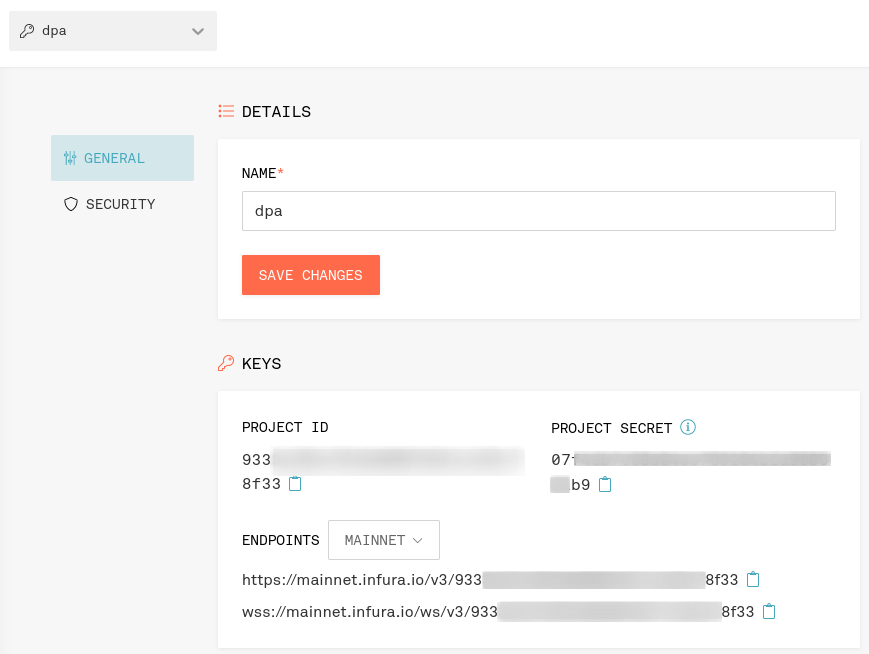
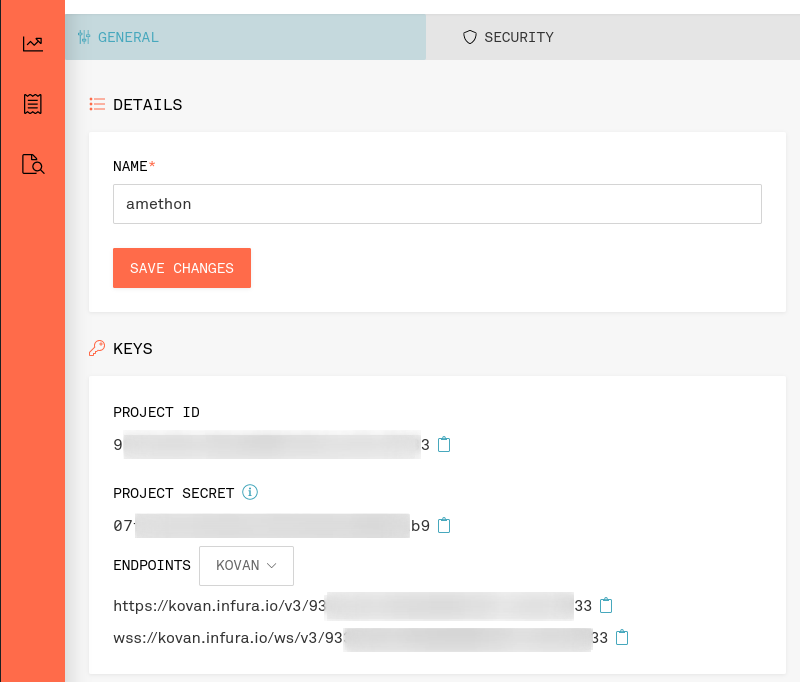
article: backend crud / listener, frontend web3

diff --git a/article/article.md b/article/article.md
@@ -1,4 +1,4 @@
-# Paying with Crypto for a classical commerce app
+# Accepting Crypto Payments in a Classic Commerce App
 
 E-commerce storefronts are surprisingly slowly adapting crypto tokens as a payment method. Crypto payment plugins or payment gateway integrations aren't generally available or rely on a 3rd party custodian to collect, exchange and distribute revenues. Considering the growing ownership rate and experimentation ratio of crypto currencies, a "pay with token" button could be a great addition to any online shop to drive sales. Here we demonstrate how you can integrate a secure crypto payment method into any online store without relying on any 3rd party service.
 
@@ -6,11 +6,13 @@ E-commerce storefronts are surprisingly slowly adapting crypto tokens as a payme
 
 The goal is to build a storefront for downloadable ebooks that accepts the blockchain's native Ether currency and ERC20 stablecoins (pegged in USD) as payment which allows us to do without an external exchange rate service apart from an updated ETH/USD rate that we will just assume fixed for simplicity's sake.
 
-## application structure
+### application structure
 
 The store is built as a very plain express CRUD API with no direct connection to any blockchain. Its frontend relies on a plain Create React App setup and the settlement layer consists of an Ethereum smart contract that accepts Ether and ERC20 payments.
 
-Amethon is "classic" ecommerce application so it must take care of the business logic itself. To initiate the checkout transaction the backend creates a `PaymentRequest` object with an unique identifier that users are supposed to send along their payment transaction. Once the payment has settled, a permanently running daemon listens to corresponding payment events emitted by the contract layer and updates the store's database when a payment has settled. To authenticate requests for the final download step the backend requires the customer's individual signature. The full Amethon implementation can be found on our [github repo](https://github.com/elmariachi111/amethon).
+Amethon is "classic" ecommerce application so it must take care of the business logic itself. To initiate the checkout transaction the backend creates a `PaymentRequest` object with an unique identifier that users are supposed to send along their payment transaction. Once the payment has settled, a permanently running daemon listens to corresponding payment events emitted by the contract layer and updates the store's database when a payment has settled. To authenticate requests for the final download step the backend requires the customer's individual signature. The full Amethon implementation can be found on our [github repo](https://github.com/elmariachi111/amethon). All code is written in Typescript and can be compiled using the respective `yarn build` or `yarn dev` commands.
+
+## Contracts
 
 ### The PaymentReceiver contract
 
@@ -115,22 +117,199 @@ Our `truffle.config.js` shows how everything fits together:
  };
 ```
 
-For your local development setup you won't need any further setup. To start a local blockchain with prefunded accounts, just change to the `contracts` folder, execute a `yarn develop`. You can build the contracts by issuing a `compile` command and deploy them on your devnet with `migrate`. To interact with the deployed instances from inside the console you first get a deployed instance and call methods on it:
+Local development doesn't require any special setup. Change to the `contracts` folder and run `yarn truffle develop`. This will start a local blockchain with prefunded accounts and open a connected console on it. Type `compile` to compile all contracts at once and deploy them to your the local chain with `migrate`. You can interact with the deployed instances by requesting the currently deployed instance of it and calling its methods like this:
 
 ```
 pr = await PaymentReceiver.deployed()
 balance = await pr.getBalance()
 ```
 
-## backend
+Once you're fine with your results you can deploy them on a public testnet (or mainnet), as well:
 
-#### the store API / CRUD
+```
+yarn truffle migrate --interactive --network kovan
+```
 
-#### a listener daemon
+## The Backend
 
-### frontend
+### the store API / CRUD
 
-#### connecting to web3
+The foremost task of our backend is to provide a REST-like API to access CRUD resources. We've decided to go with TypeORM to setup a local SQLite database and created entities for `Book`s and `PaymentRequest`s. Books obviously represent our shop's main entity and have a retail price, denoted in USD cents. On a sidenote: storing monetary values as integers is highly adviseable on any computer system because operating on float values will certainly introduce precision errors - all tokens on Ethereum operate with 18 decimal digits and 1 Ether therefore represents "1000000000000000000" _wei_, the smallest ether unit.
+
+```typescript
+import { Entity, Column, PrimaryColumn, OneToMany } from "typeorm";
+import { PaymentRequest } from "./PaymentRequest";
+
+@Entity()
+export class Book {
+  @PrimaryColumn()
+  ISBN: string;
+
+  @Column()
+  title: string;
+
+  @Column()
+  retailUSDCent: number;
+
+  @OneToMany(
+    () => PaymentRequest,
+    (paymentRequest: PaymentRequest) => paymentRequest.book
+  )
+  payments: PaymentRequest[];
+}
+```
+
+Users who intend to _buy_ a book from our store, first create an individual `PaymentRequest` for their item by invoking the `/books/:isbn/order` route. It creates a new unique identifier that must be sent along each request. We're using plain integers here but for real use cases you'd want to use something more sophisticated - just make sure that its binary length fits into 32 bytes, which translate to one uint256 in Solidity. Each `PaymentRequest` inherits the books retail value in USD cents and carries the receiver's address; thus a book can effectively bought as a gift for another address. `fulfilledHash` and `paidUSDCent` will be determined during the buying process. The frontend will request already existing `PaymentRequest`s by calling the `/books/:isbn/payments/:address` route.
+
+```typescript
+import { Entity, Column, ManyToOne, PrimaryGeneratedColumn } from "typeorm";
+import { Book } from "./Book";
+
+@Entity()
+export class PaymentRequest {
+  @PrimaryGeneratedColumn()
+  id: number;
+
+  @Column("varchar", { nullable: true })
+  fulfilledHash: string | null;
+
+  @Column()
+  address: string;
+
+  @Column()
+  priceInUSDCent: number;
+
+  @Column("mediumint", { nullable: true })
+  paidUSDCent: number;
+
+  @ManyToOne(() => Book, (book) => book.payments)
+  book: Book;
+}
+```
+
+```json
+POST http://localhost:3001/books/978-0060850524/order
+Content-Type: application/json
+
+{
+  "address": "0xceeca1AFA5FfF2Fe43ebE1F5b82ca9Deb6DE3E42"
+}
+---
+{
+  "paymentRequest": {
+    "book": {
+      "ISBN": "978-0060850524",
+      "title": "Brave New World",
+      "retailUSDCent": 1034
+    },
+    "address": "0xceeca1AFA5FfF2Fe43ebE1F5b82ca9Deb6DE3E42",
+    "priceInUSDCent": 1034,
+    "fulfilledHash": null,
+    "paidUSDCent": null,
+    "id": 6
+  },
+  "receiver": "0x7A08b6002bec4B52907B4Ac26f321Dfe279B63E9"
+}
+
+```
+
+To initially seed the database with books you can use the accompanying `seed.ts` file that once compiled can be executed by invoking `node build/seed.js`.
+
+### The blockchain listener daemon
+
+At its core a blockchain is a never ending list of consecutive transactions that modify one huge state tree. Querying the state tree from clients doesn't cost any gas but requires (Infura's) nodes to read data - when that those operations become too computation heavy, they might simply time out. For real time interactions it therefore is highly recommended to not poll contract view methods but listen to events emitted by transactions instead. This is how the backend's `daemon.ts` script listens for `PaymentReceived` events:
+
+```typescript
+  const paymentReceiver = new web3.eth.Contract(
+    paymentReceiverAbi as AbiItem[],
+    process.env.PAYMENT_RECEIVER_CONTRACT as string
+  );
+
+  const emitter = paymentReceiver.events.PaymentReceived({
+    fromBlock: "0",
+  });
+
+  emitter.on("data", handlePaymentEvent);
+})();
+```
+
+Take note of how we're instantiating the `Contract` instance with an "ABI": this "Application Binary Interface" is a compiler generated output that contains information for RPC clients which methods, events and arguments exist on a smart contract. Once instantiated you can hook a listener on the contract's `PaymentReceived` logs (starting at block 0) and handle them once received.
+
+Since Amethon shall shall support Ether and stablecoin ("USD") payments the `handlePaymentEvent` methods first checks which token has been used in the user's payment and computes its dollar value if necessary:
+
+```typescript
+const ETH_USD_CENT = 2_200 * 100;
+const ACCEPTED_USD_TOKENS = (process.env.STABLECOINS as string).split(",");
+const NATIVE_ETH = "0xEeeeeEeeeEeEeeEeEeEeeEEEeeeeEeeeeeeeEEeE";
+
+const handlePaymentEvent = async (event: PaymentReceivedEvent) => {
+  const args = event.returnValues;
+  const paymentId = web3.utils.hexToNumber(args.paymentId);
+  const decimalValue = web3.utils.fromWei(args.value);
+  const payment = await paymentRepo.findOne({ where: { id: paymentId } });
+  let valInUSDCents;
+  if (args.token === NATIVE_ETH) {
+    valInUSDCents = parseFloat(decimalValue) * ETH_USD_CENT;
+  } else {
+    if (!ACCEPTED_USD_TOKENS.includes(args.token)) {
+      return console.error("payments of that token not supported");
+    }
+    valInUSDCents = parseFloat(decimalValue) * 100;
+  }
+
+  if (valInUSDCents < payment.priceInUSDCent) {
+    return console.error(`payment [${paymentId}] not sufficient`);
+  }
+
+  payment.paidUSDCent = valInUSDCents;
+  payment.fulfilledHash = event.transactionHash;
+  await paymentRepo.save(payment);
+};
+```
+
+## The Frontend
+
+Our bookstore's frontend is built using a plain [Create React App](https://create-react-app.dev/) template with Typescript support and [Tailwind](https://tailwindcss.com/) for basic styles. CRA5 bumped their webpack dependency to a version that doesn't support node polyfills in browsers anymore which breaks the builds of nearly all Ethereum related projects today. A common workaround that avoids ejecting is to hook into the CRA build process - we decided to use [react-app-rewired](https://github.com/timarney/react-app-rewired) or go with CRA4 until the community agreed to a better solution.
+
+### connecting to web3
+
+The most crucial part of a Dapp is to get a connection to an user's wallet. While you could try to manually wire that process up according to [the official Metamask docs](https://docs.metamask.io/guide/getting-started.html), we strongly recommend going with an appropriate React library; we found Noah Zinsmeister's [web3-react](https://www.npmjs.com/package/web3-react) to do the job best. Detecting and connecting to a web3 client then boils down to this code (`ConnectButton.tsx`):
+
+```tsx
+import { useWeb3React } from "@web3-react/core";
+import { InjectedConnector } from "@web3-react/injected-connector";
+import React from "react";
+import Web3 from "web3";
+
+export const injectedConnector = new InjectedConnector({
+  supportedChainIds: [42, 1337, 31337], //Kovan, Truffle, Hardhat
+});
+
+export const ConnectButton = () => {
+  const { activate, account, active } = useWeb3React<Web3>();
+
+  const connect = () => {
+    activate(injectedConnector, console.error);
+  };
+
+  return active ? (
+    <div className="text-sm">connected as: {account}</div>
+  ) : (
+    <button className="btn-primary" onClick={connect}>
+      Connect
+    </button>
+  );
+};
+```
+
+By wrapping your app's code in an `<Web3ReactProvider getLibrary={getWeb3Library}>` context you can access the web3 provider, account and connected state using the `useWeb3React` hook from anywhere. Since Web3React is agnostic to the web3 library being used ([Web3.js](https://www.npmjs.com/package/web3) or [ethers.js](https://www.npmjs.com/package/ethers)), you must provide a callback that yields a connected "library" once:
+
+```typescript
+import Web3 from "web3";
+function getWeb3Library(provider: any) {
+  return new Web3(provider);
+}
+```
 
 ## usage
 
